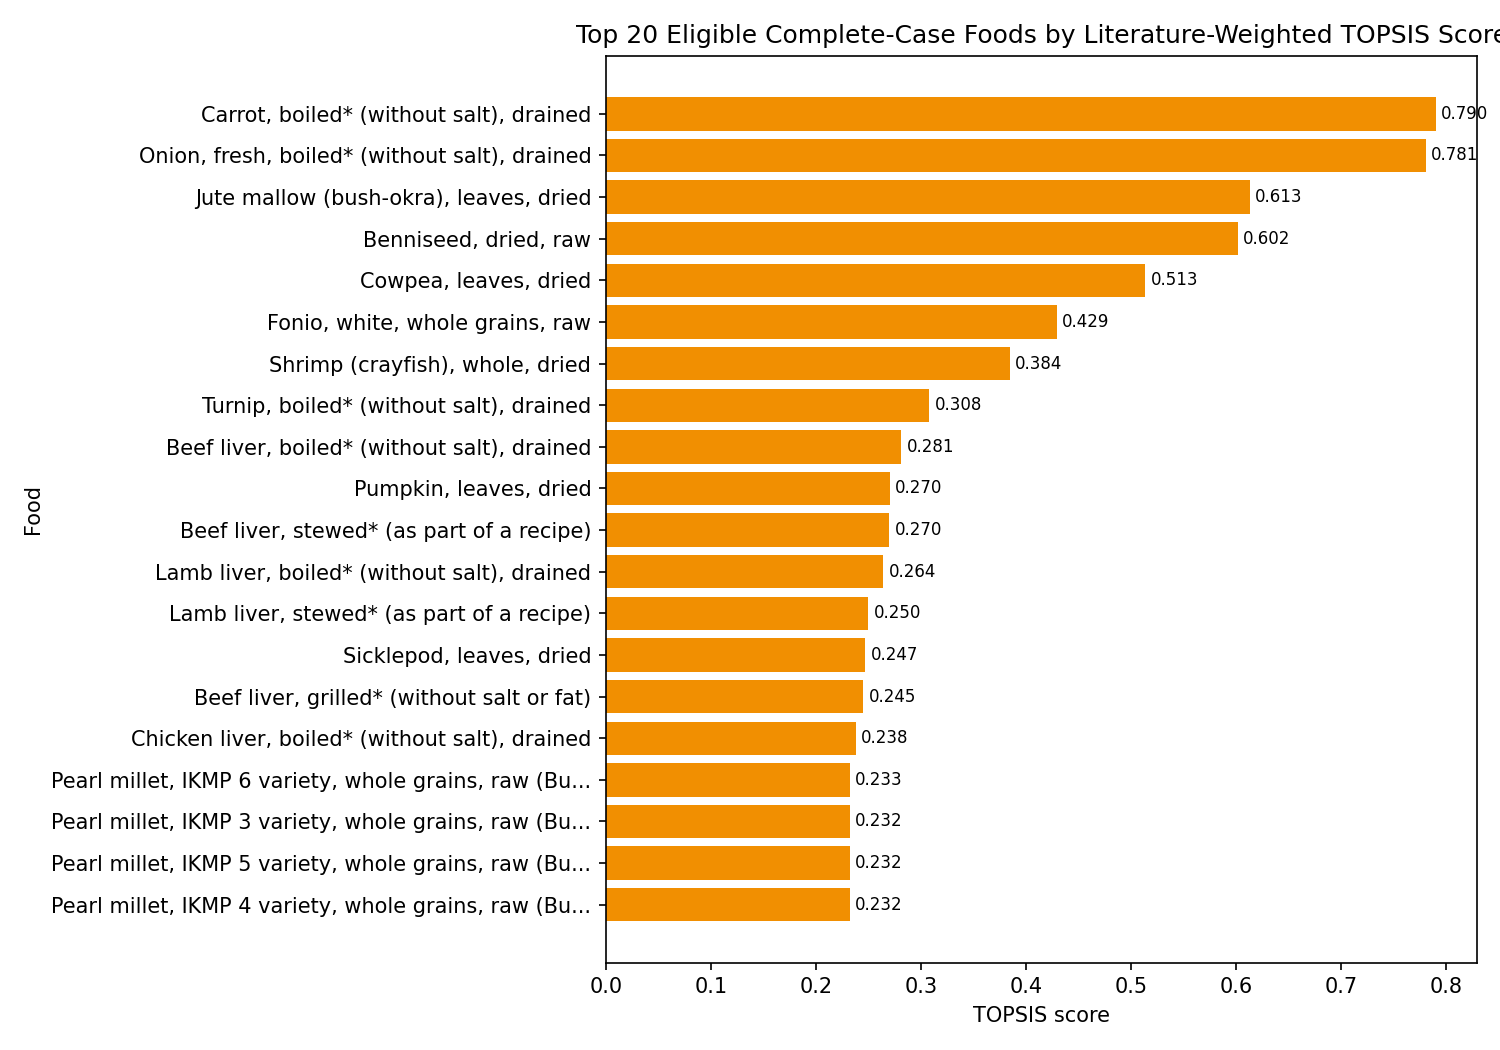
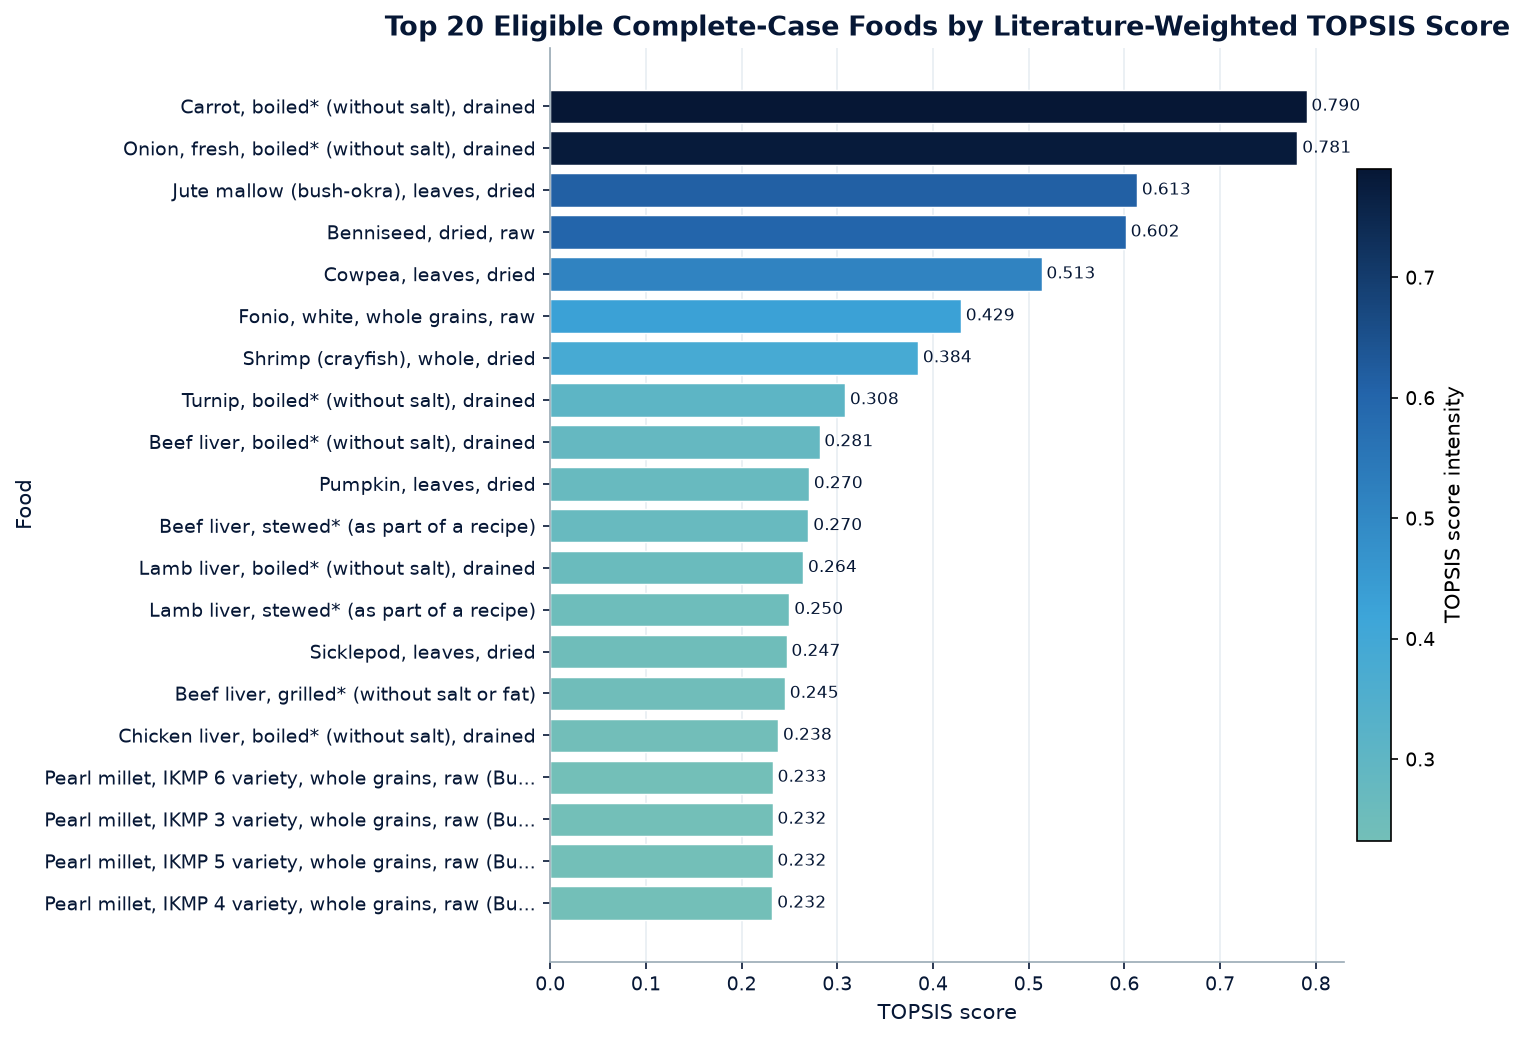
updated charts

diff --git a/scripts/pipeline.py b/scripts/pipeline.py
@@ -1,12 +1,14 @@
 import argparse
 import os
 import re
+import textwrap
 from pathlib import Path
 
 os.environ.setdefault("MPLBACKEND", "Agg")
 os.environ.setdefault("MPLCONFIGDIR", str(Path(__file__).resolve().parents[1] / "outputs" / ".matplotlib"))
 
 import matplotlib.pyplot as plt
+import matplotlib.colors as mcolors
 import numpy as np
 import pandas as pd
 
@@ -32,12 +34,15 @@ from config import (
 )
 
 PALETTE = {
-    "blue": "#2E86AB",
-    "green": "#6A994E",
-    "orange": "#F18F01",
-    "purple": "#A23B72",
+    "navy": "#061735",
+    "blue": "#2364AA",
+    "teal": "#66BEB5",
+    "gold": "#FEC601",
+    "orange": "#EA7317",
     "red": "#C73E1D",
-    "gray": "#4A4A4A",
+    "purple": "#7A5195",
+    "gray": "#596879",
+    "light_grid": "#E7EEF2",
 }
 
 
@@ -366,7 +371,101 @@ def run_topsis():
 
 def clean_label(value, max_len=54):
     value = str(value).replace("\n", " ")
+    value = value.replace("_", " ")
+    value = re.sub(r"\s+", " ", value).strip()
     return value if len(value) <= max_len else value[: max_len - 3] + "..."
+
+
+def nutrient_display_label(row_or_value, max_len=42):
+    """Use readable nutrient labels in figures while leaving source data intact."""
+    key_labels = {
+        "protein": "Protein",
+        "net_carbs": "Net carbs",
+        "fiber": "Fiber",
+        "calcium": "Calcium",
+        "iron": "Iron",
+        "magnesium": "Magnesium",
+        "phosphorus": "Phosphorus",
+        "potassium": "Potassium",
+        "sodium": "Sodium",
+        "zinc": "Zinc",
+        "copper": "Copper",
+        "vitamin_a": "Vitamin A",
+        "vitamin_c": "Vitamin C",
+        "vitamin_d": "Vitamin D",
+        "vitamin_b12": "Vitamin B12",
+        "vitamin_b6": "Vitamin B6",
+        "thiamine": "Thiamine",
+        "riboflavin": "Riboflavin",
+        "niacin": "Niacin",
+        "folate": "Folate",
+        "saturated_fat": "Saturated fat",
+        "monounsaturated_fat": "Monounsaturated fat",
+        "polyunsaturated_fat": "Polyunsaturated fat",
+        "linoleic_acid": "Linoleic acid",
+        "alpha_linolenic_acid": "Alpha-linolenic acid",
+    }
+    if isinstance(row_or_value, pd.Series) and row_or_value.get("nutrient_key") in key_labels:
+        return key_labels[row_or_value["nutrient_key"]]
+    reverse_lookup = {item["column"]: key_labels.get(item["key"], item["key"].replace("_", " ").title()) for item in NUTRIENTS}
+    label = reverse_lookup.get(str(row_or_value), clean_label(row_or_value, max_len=max_len))
+    return clean_label(label, max_len=max_len)
+
+
+def wrap_labels(labels, width=28):
+    return ["\n".join(textwrap.wrap(str(label), width=width, break_long_words=False)) for label in labels]
+
+
+def style_axis(ax, grid_axis="x"):
+    """Apply a restrained publication-style axis treatment."""
+    ax.set_facecolor("white")
+    ax.tick_params(axis="both", labelsize=9, colors=PALETTE["navy"])
+    ax.title.set_color(PALETTE["navy"])
+    ax.xaxis.label.set_color(PALETTE["navy"])
+    ax.yaxis.label.set_color(PALETTE["navy"])
+    ax.spines["top"].set_visible(False)
+    ax.spines["right"].set_visible(False)
+    ax.spines["left"].set_color("#9AAAB5")
+    ax.spines["bottom"].set_color("#9AAAB5")
+    ax.grid(axis=grid_axis, color=PALETTE["light_grid"], linewidth=0.8)
+    ax.set_axisbelow(True)
+
+
+def values_to_colors(values, cmap_name, low_clip=None, high_clip=None):
+    values = pd.Series(values, dtype="float64")
+    vmin = values.min() if low_clip is None else low_clip
+    vmax = values.max() if high_clip is None else high_clip
+    norm = mcolors.Normalize(vmin=vmin, vmax=vmax)
+    cmap = plt.get_cmap(cmap_name) if isinstance(cmap_name, str) else cmap_name
+    return [cmap(norm(value)) for value in values], norm, cmap
+
+
+def truncated_colormap(cmap_name, min_value=0.18, max_value=0.95, steps=256):
+    """Avoid nearly white low-value colors that disappear for low-vision users."""
+    cmap = plt.get_cmap(cmap_name)
+    return mcolors.LinearSegmentedColormap.from_list(
+        f"{cmap_name}_{min_value:.2f}_{max_value:.2f}",
+        cmap(np.linspace(min_value, max_value, steps)),
+    )
+
+
+def blue_score_colormap():
+    """Colorblind-friendly score ramp with visible lows and dark high scores."""
+    return mcolors.LinearSegmentedColormap.from_list(
+        "accessible_blue_score",
+        ["#73BFB8", "#3DA5D9", "#2364AA", "#061735"],
+    )
+
+
+def color_luminance(rgba):
+    rgb = np.array(rgba[:3])
+    rgb = np.where(rgb <= 0.03928, rgb / 12.92, ((rgb + 0.055) / 1.055) ** 2.4)
+    return 0.2126 * rgb[0] + 0.7152 * rgb[1] + 0.0722 * rgb[2]
+
+
+def text_color_for_cell(value, cmap, norm):
+    """Choose black/white text using the rendered cell color, not a hard threshold."""
+    return "black" if color_luminance(cmap(norm(value))) > 0.42 else "white"
 
 
 def build_rdi_coverage(top_n=25):
@@ -406,48 +505,101 @@ def build_rdi_coverage(top_n=25):
 def generate_figures():
     """Create interpretation-ready figures and omit redundant old figures."""
     FIGURE_DIR.mkdir(parents=True, exist_ok=True)
+    plt.rcParams.update({
+        "figure.facecolor": "white",
+        "axes.facecolor": "white",
+        "axes.titlesize": 13,
+        "axes.titleweight": "bold",
+        "axes.labelsize": 10,
+        "font.size": 9,
+        "savefig.bbox": "tight",
+    })
     support = pd.read_csv(OUTPUT_FILES["support_counts"]).sort_values("supporting_abstract_count", ascending=True)
     supported = support[support["supporting_abstract_count"] > 0]
+    supported_labels = supported.apply(nutrient_display_label, axis=1)
 
     fig, ax = plt.subplots(figsize=(10, max(5, len(supported) * 0.32)))
-    bars = ax.barh([clean_label(v) for v in supported["nutrient_name"]], supported["supporting_abstract_count"], color=PALETTE["blue"])
+    support_cmap = truncated_colormap("YlOrBr", 0.28, 0.98)
+    support_colors, support_norm, support_cmap = values_to_colors(supported["supporting_abstract_count"], support_cmap)
+    bars = ax.barh(
+        supported_labels,
+        supported["supporting_abstract_count"],
+        color=support_colors,
+        edgecolor="white",
+        linewidth=0.7,
+    )
     ax.set_title("Figure 1. PubMed Abstract Support Counts by Nutrient")
     ax.set_xlabel("Supporting abstracts with nutrient and deficiency-context co-occurrence")
     ax.set_ylabel("Nutrient")
+    style_axis(ax)
     for bar in bars:
         width = bar.get_width()
-        ax.text(width + 1, bar.get_y() + bar.get_height() / 2, f"{int(width)}", va="center", fontsize=8)
-    ax.text(0.01, 0.01, "Interpretation: larger counts receive larger literature-derived weights after normalization.", transform=ax.transAxes, fontsize=9)
+        ax.text(width + max(supported["supporting_abstract_count"]) * 0.01, bar.get_y() + bar.get_height() / 2, f"{int(width)}", va="center", fontsize=8, color=PALETTE["navy"])
+    scalar = plt.cm.ScalarMappable(norm=support_norm, cmap=support_cmap)
+    scalar.set_array([])
+    cbar = fig.colorbar(scalar, ax=ax, pad=0.015, fraction=0.04)
+    cbar.set_label("Support count intensity")
+    ax.text(
+        0.01,
+        -0.12,
+        "Color encodes the number of supporting abstracts; darker bars indicate stronger literature signals.",
+        transform=ax.transAxes,
+        fontsize=8.5,
+        color=PALETTE["gray"],
+    )
     plt.tight_layout()
     plt.savefig(FIGURE_DIR / "figure-1-abstract-support-counts.png", dpi=150)
     plt.close()
 
     scores = pd.read_csv(OUTPUT_FILES["topsis"])
     fig, ax = plt.subplots(figsize=(8, 5))
-    ax.hist(scores["topsis_score"], bins=35, color=PALETTE["green"], edgecolor="black", alpha=0.85)
+    counts, bins, patches = ax.hist(scores["topsis_score"], bins=35, edgecolor="white", linewidth=0.7, alpha=0.95)
+    bin_centers = 0.5 * (bins[:-1] + bins[1:])
+    hist_cmap = blue_score_colormap()
+    hist_colors, hist_norm, hist_cmap = values_to_colors(bin_centers, hist_cmap)
+    for patch, color in zip(patches, hist_colors):
+        patch.set_facecolor(color)
     ax.set_title("TOPSIS Score Distribution Across Eligible Complete-Case Foods")
     ax.set_xlabel("TOPSIS score")
     ax.set_ylabel("Number of foods")
+    style_axis(ax)
     mean_score = scores["topsis_score"].mean()
     median_score = scores["topsis_score"].median()
     spread = scores["topsis_score"].quantile(0.9) - scores["topsis_score"].quantile(0.1)
     ax.axvline(mean_score, color=PALETTE["red"], linestyle="--", linewidth=1.5, label=f"Mean = {mean_score:.3f}")
     ax.axvline(median_score, color=PALETTE["purple"], linestyle=":", linewidth=1.8, label=f"Median = {median_score:.3f}")
-    ax.text(0.02, 0.95, f"Ranking spread: P90 - P10 = {spread:.3f}", transform=ax.transAxes, va="top")
-    ax.legend()
+    ax.text(0.02, 0.95, f"Ranking spread: P90 - P10 = {spread:.3f}", transform=ax.transAxes, va="top", color=PALETTE["navy"])
+    scalar = plt.cm.ScalarMappable(norm=hist_norm, cmap=hist_cmap)
+    scalar.set_array([])
+    cbar = fig.colorbar(scalar, ax=ax, pad=0.015, fraction=0.04)
+    cbar.set_label("TOPSIS score")
+    ax.legend(frameon=False)
     plt.tight_layout()
     plt.savefig(FIGURE_DIR / "topsis-score-distribution.png", dpi=150)
     plt.close()
 
     top = scores.head(20).sort_values("topsis_score", ascending=True)
     fig, ax = plt.subplots(figsize=(10, 7))
-    bars = ax.barh([clean_label(v) for v in top["Food name in English"]], top["topsis_score"], color=PALETTE["orange"])
+    top_cmap = blue_score_colormap()
+    top_colors, top_norm, top_cmap = values_to_colors(top["topsis_score"], top_cmap)
+    bars = ax.barh(
+        [clean_label(v) for v in top["Food name in English"]],
+        top["topsis_score"],
+        color=top_colors,
+        edgecolor="white",
+        linewidth=0.7,
+    )
     ax.set_title("Top 20 Eligible Complete-Case Foods by Literature-Weighted TOPSIS Score")
     ax.set_xlabel("TOPSIS score")
     ax.set_ylabel("Food")
+    style_axis(ax)
     for bar in bars:
         width = bar.get_width()
-        ax.text(width + 0.005, bar.get_y() + bar.get_height() / 2, f"{width:.3f}", va="center", fontsize=8)
+        ax.text(width + 0.005, bar.get_y() + bar.get_height() / 2, f"{width:.3f}", va="center", fontsize=8, color=PALETTE["navy"])
+    scalar = plt.cm.ScalarMappable(norm=top_norm, cmap=top_cmap)
+    scalar.set_array([])
+    cbar = fig.colorbar(scalar, ax=ax, pad=0.015, fraction=0.04)
+    cbar.set_label("TOPSIS score intensity")
     plt.tight_layout()
     plt.savefig(FIGURE_DIR / "top-20-foods-topsis-score.png", dpi=150)
     plt.close()
